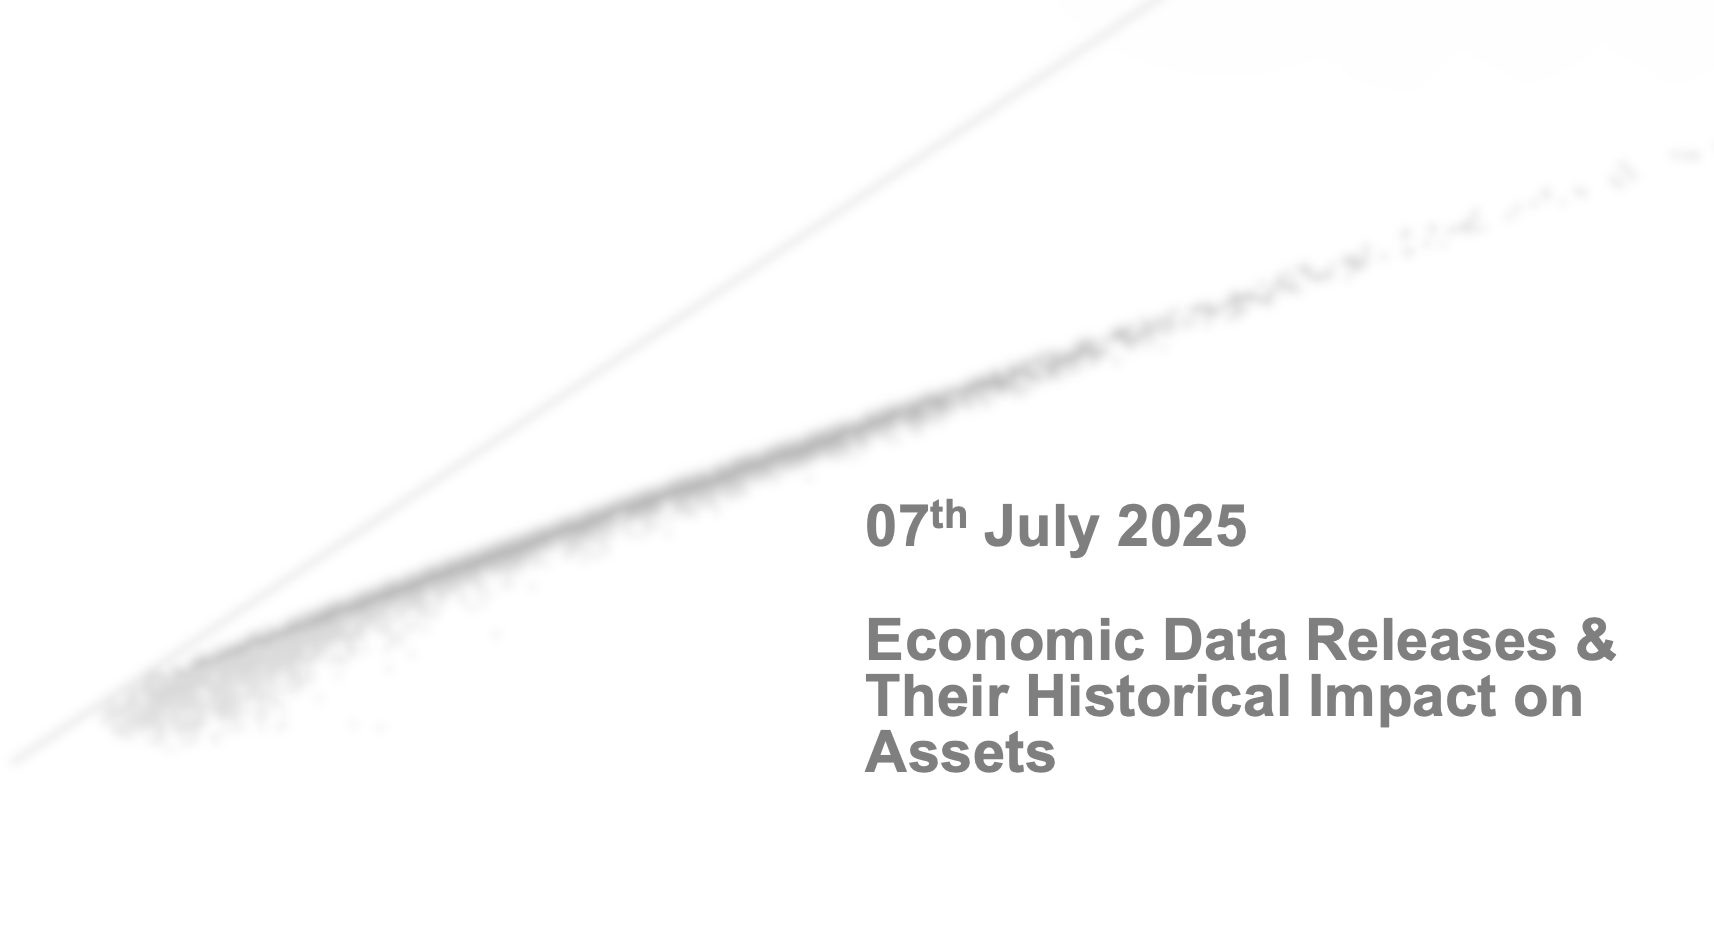
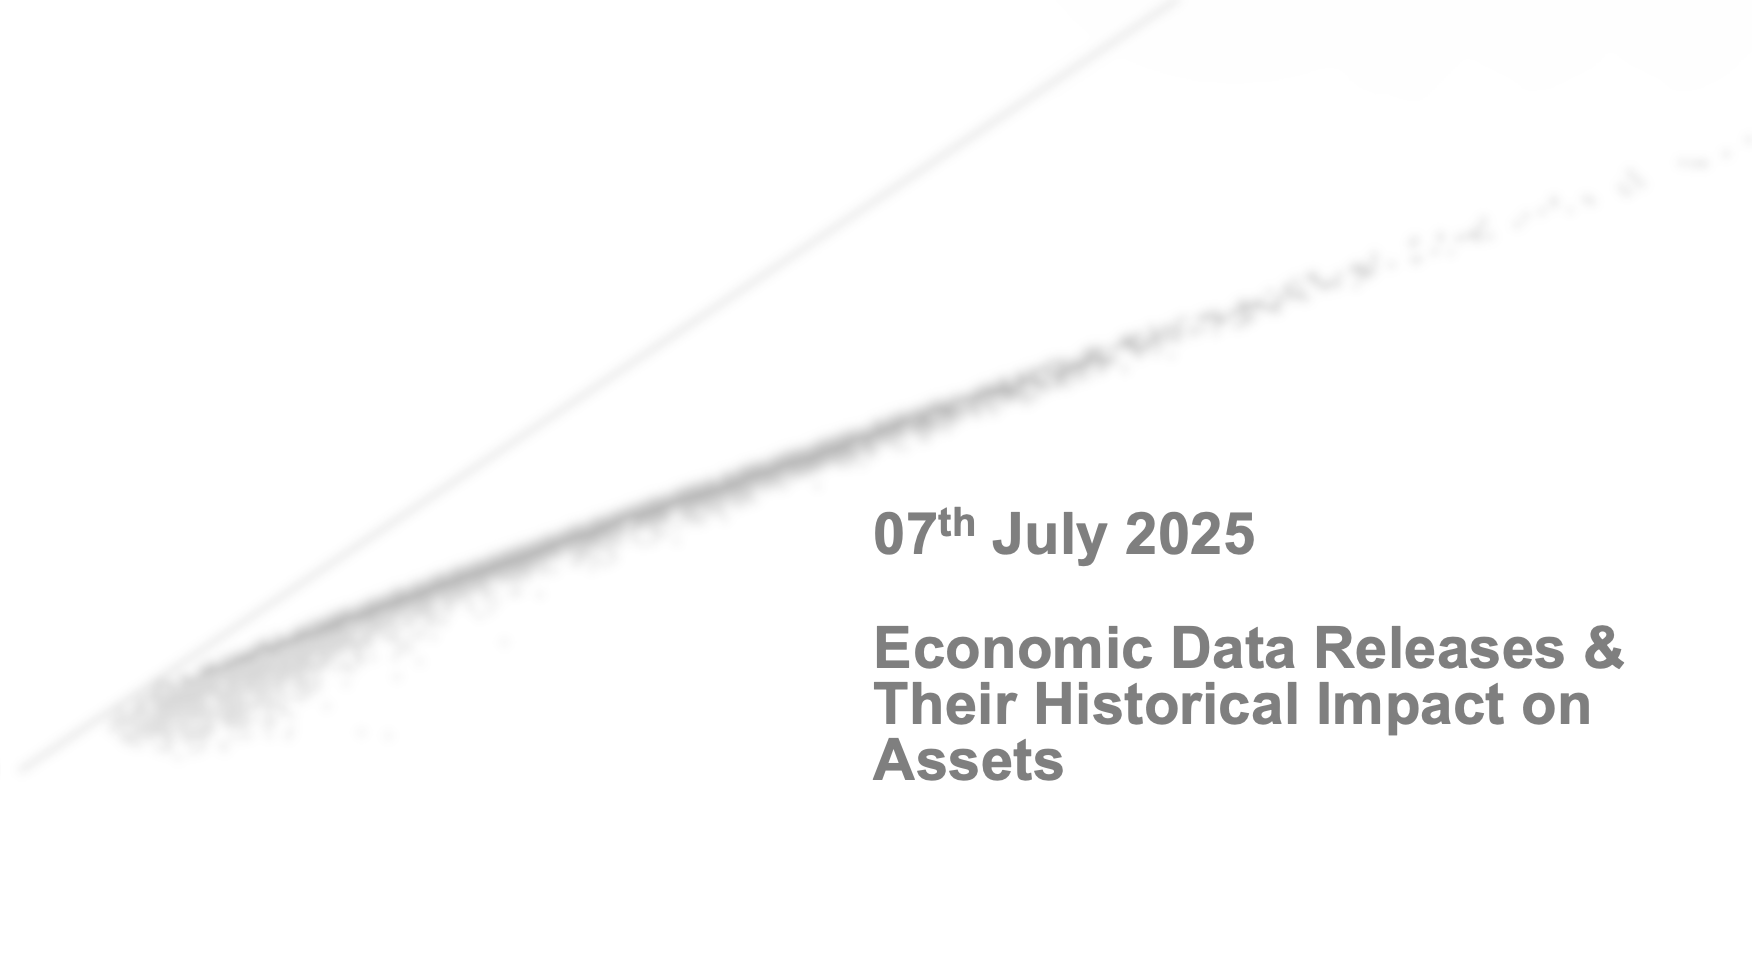
20250707: updated blog page and assets

Changed region(s): [[0.4947, 0.6451, 0.9586, 0.8294], [0.4947, 0.5222, 0.7421, 0.6144]]

diff --git a/app/blog/page.tsx b/app/blog/page.tsx
@@ -9,7 +9,6 @@ const projects = [
     title: 'Key Economic Events: Week Of 7th July 2025',
     image: '/blogs/blog-cover/20250707.png',
     link: '/blogs/20250707.html',
-    //description: 'Exploring the impact of geopolitical events on global markets.',
 
   },
   {
